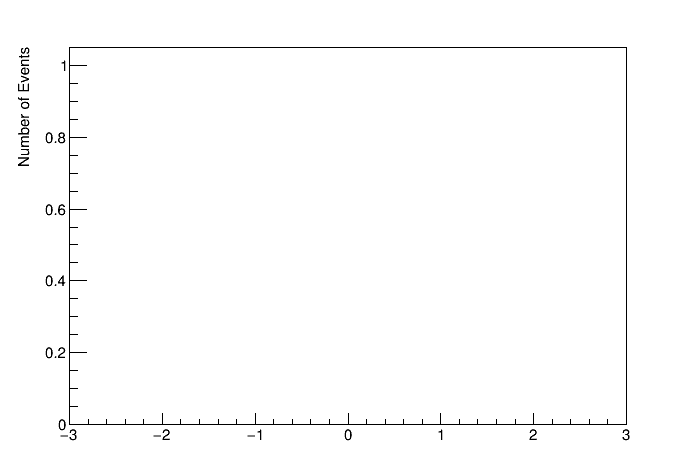
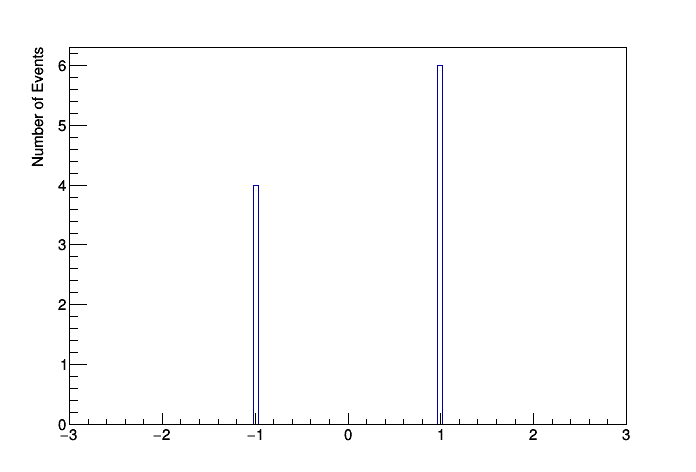
wctrk being read correctly now

diff --git a/src/ProtonXsec/ProtonXsec.cpp b/src/ProtonXsec/ProtonXsec.cpp
@@ -60,15 +60,15 @@ int main( int argc, char * argv[] ){
   gStyle->SetOptStat(0000);
   gStyle->SetOptFit(0000);
   gStyle->SetOptTitle(0);
-  gStyle->SetFillColor(0);
+  //gStyle->SetFillColor(0);
   gStyle->SetPadColor(0);
   gStyle->SetCanvasColor(0);
-  gStyle->SetStatColor(0);
+  //gStyle->SetStatColor(0);
   gStyle->SetTitleColor(0);
   gStyle->SetPadBorderMode(0);
   gStyle->SetFrameBorderMode(0);
   gStyle->SetCanvasBorderMode(0);
-  gStyle->SetPalette(18,0);
+  //gStyle->SetPalette(18,0);
   gStyle->SetPaperSize(20,26);
 
   //gRandom->SetSeed(0);
@@ -134,7 +134,7 @@ ProtonXsec::ProtonXsec( char* jobOptionsFile ) : LArIATAnalysis( jobOptionsFile 
     numEventsToProcess = 100000000;
   
   
-  verbose = UI->verbose;
+  bool verbose = (UI->verbose > 0);
   isMC = UI->isMC;
   
 }
@@ -150,27 +150,41 @@ void ProtonXsec::AnalyzeFromNtuples(){
   std::cout << "I calculate the p-Ar cross section! \n";
   
   EventSelector *ES = new EventSelector();
-  std::cout << ES->classifyEvent( 4 ) << std::endl;
-  std::cout << ES->classifyEvent( 7 ) << std::endl;
-
 
   BeamSelector *BS = new BeamSelector();
   
-  bookNtuple( tuple );
+  bookNtuple( tuple , UI->isMC);
   if (tuple == 0) return;
 
   Long64_t nentries = tuple->GetEntriesFast();
-  TCanvas *c = new TCanvas;
-  TH1D *BeamSelHistMC = new TH1D("BeamSelHistMC","True False Proton Histogram: MC",100,-3,3);
+  TCanvas *c = new TCanvas("c","c",1000, 1000);
+
+
+  TH1D *BeamSelHistMC = new TH1D("BeamSelHistMC","Primary Track Identified for Event: MC",100,-3,3);
   BeamSelHistMC->GetYaxis()->SetTitle("Number of Events");
-  TH1D *BeamSelHistData = new TH1D("BeamSelHistData","True False Proton Histogram: Data",100,-3,3);
+  
+  TH1D *BeamSelHistData = new TH1D("BeamSelHistData","Primary Tracks Identified",100,-3,3);
   BeamSelHistData->GetYaxis()->SetTitle("Number of Events");
-  TH2D *BeamPositionXY =  new TH2D("BeamPositionXY","Position of incoming particles",
-    20, 0, 80, 20, -40, 40);
-  BeamPositionXY->GetYaxis()->SetTitle("Y");
-  BeamPositionXY->GetXaxis()->SetTitle("X");
+  BeamSelHistData->GetYaxis()->SetTitle("Number of Events");
+
+  TH1D *BeamToF = new TH1D("BeamToF","Incoming Particle TOF",20,-2,2);
+  BeamToF->GetXaxis()->SetTitle("ns");
+  BeamToF->GetYaxis()->SetTitle("Number of Events");
+
+  
+
+  TH2D *TrackPositionXY =  new TH2D("TrackPositionXY","Position of TPC track start",
+    20, 0, 47.5, 20, -20, 20);
+  TrackPositionXY->GetYaxis()->SetTitle("Y");
+  TrackPositionXY->GetXaxis()->SetTitle("X");
 
    
+
+  TH1D *BeamMomentum = new TH1D("BeamMomentum","Incoming Particle Momentum",20,300,700);
+  BeamMomentum->GetXaxis()->SetTitle("[MeV/c]");
+  BeamMomentum->GetYaxis()->SetTitle("Number of Events");
+
+
   // ## event loop ##
   for (Long64_t jentry=0; jentry < numEventsToProcess && jentry < nentries; jentry++) {
     
@@ -182,25 +196,34 @@ void ProtonXsec::AnalyzeFromNtuples(){
     int reco_primary = -1;
     double first_reco_z = 99.;
     printEvent();
-    bool beam_result = BS->isProton( track_zpos, ntracks_reco, isMC, UI->zBeamCutoff,
+    bool found_primary = BS->PrimaryTrack( track_zpos, ntracks_reco, UI->zBeamCutoff,
      reco_primary, first_reco_z);
-    if(beam_result){
-      std::cout << "is Proton\n" << std::endl;
+    
+    if(found_primary){
+      std::cout << "Found Primary\n" << std::endl;
       if(isMC){
-        BeamSelHistMC->Fill(1);
-
-        
-        BeamPositionXY->Fill((*track_xpos)[reco_primary][first_reco_z],
-          (*track_ypos)[reco_primary][first_reco_z]);
+        BeamSelHistMC->Fill(1);        
+        TrackPositionXY->Fill((*track_xpos)[reco_primary][0],
+          (*track_ypos)[reco_primary][0]);
       
       }
-      else{BeamSelHistData->Fill(1);}
+      else{//
+        BeamSelHistData->Fill(1);
+          TrackPositionXY->Fill((*track_xpos)[reco_primary][0],
+          (*track_ypos)[reco_primary][0]);
+
+          for (int wctrack = 0 ; wctrack < num_wctracks; wctrack++){
+          BeamMomentum->Fill(wctrk_momentum[wctrack]);
+          BeamToF->Fill(tofObject[wctrack]);}
+
+      }
 
     }
     else{
-      std::cout << "not Proton\n" << std::endl;
+      std::cout << "No Valid Primary \n" << std::endl;
       if(isMC){BeamSelHistMC->Fill(-1);}
       else{BeamSelHistData->Fill(-1);}
+
     }
   }
 
@@ -219,12 +242,12 @@ void ProtonXsec::AnalyzeFromNtuples(){
     }
     /*if(UI->psOutputFileSet){
        BeamSelHistMC->Print(UI->psOutputFile);
-       BeamPositionXY->Print(UI->psOutputFile);
+       TrackPositionXY->Print(UI->psOutputFile);
     }*/
     TImage *img = TImage::Create();
     img->FromPad(c);
     img->WriteImage("BeamSelHistMC.png");
-    BeamPositionXY->Draw("COLZ");
+    TrackPositionXY->Draw("COLZ");
     TImage *BeamXYimg = TImage::Create();
     BeamXYimg->FromPad(c);
     BeamXYimg->WriteImage("BeamXY.png");}
@@ -233,18 +256,42 @@ void ProtonXsec::AnalyzeFromNtuples(){
 
 
 
-  else if (!(isMC)){BeamSelHistData->Draw();
+  else if (!(isMC)){
     c->cd();
+    
+    
 
 
     if(UI->rootOutputFileSet){
-       BeamSelHistData->Write();
+
+    BeamSelHistData->Draw();
+    BeamSelHistData->Write();
+    TImage *img = TImage::Create();
+    img->FromPad(c);
+    img->WriteImage("BeamSelHistData.png");
+    
+    TrackPositionXY->Draw("COLZ");
+    TrackPositionXY->Write();
+    TImage *BeamXYimg = TImage::Create();
+    BeamXYimg->FromPad(c);
+    BeamXYimg->WriteImage("BeamXYData.png");
+    
+    BeamToF->Draw();
+    BeamToF->Write();
+    TImage *Beamtofimg = TImage::Create();
+    Beamtofimg->FromPad(c);
+    Beamtofimg->WriteImage("BeamToFData.png");
+
+    BeamMomentum->Draw();
+    BeamMomentum->Write();
+    TImage *BeamMomImg = TImage::Create();
+    BeamMomImg->FromPad(c);
+    BeamMomImg->WriteImage("BeamMomentum.png");
+
     }
 
 
-    TImage *img = TImage::Create();
-    img->FromPad(c);
-    img->WriteImage("BeamSelHistData.png");}
+}
 
 
 

diff --git a/src/Utilities/LArIATAnalysis.cpp b/src/Utilities/LArIATAnalysis.cpp
@@ -96,7 +96,7 @@ void LArIATAnalysis::openNtupleFiles( char* file, TChain* &tuple ){
 //===================================================================
 // booNtuple -- set the branch addresses for the current ntuple
 //===================================================================
-void LArIATAnalysis::bookNtuple( TChain* tuple ){
+void LArIATAnalysis::bookNtuple( TChain* tuple, bool isMC ){
 
   if( !tuple ){
     std::cout << "You did not supply an ntuple file!!" << std::endl;
@@ -177,8 +177,12 @@ void LArIATAnalysis::bookNtuple( TChain* tuple ){
   DPMidPosZ = 0;
   InteractionPoint = 0;
   InteractionPointType = 0;
+  num_wctracks = 0;
+
+
   
   tuple->SetMakeClass(1);
+  
   
   tuple->SetBranchAddress("run", &run, &b_run);
   tuple->SetBranchAddress("subrun", &subrun, &b_subrun);
@@ -267,6 +271,15 @@ void LArIATAnalysis::bookNtuple( TChain* tuple ){
   tuple->SetBranchAddress("DPMidPosZ", &DPMidPosZ, &b_DPMidPosZ);
   tuple->SetBranchAddress("InteractionPoint", &InteractionPoint, &b_InteractionPoint);
   tuple->SetBranchAddress("InteractionPointType", &InteractionPointType, &b_InteractionPointType);
+  if(!isMC){
+    tuple->SetBranchAddress("wctrk_momentum", &wctrk_momentum, &b_wctrk_momentum);
+    tuple->SetBranchAddress("wctrk_XFace", &wctrk_XFace, &b_wctrk_XFace);
+    tuple->SetBranchAddress("wctrk_YFace", &wctrk_YFace, &b_wctrk_YFace);
+    tuple->SetBranchAddress("wctrk_theta", &wctrk_theta, &b_wctrk_theta);
+    tuple->SetBranchAddress("wctrk_phi", &wctrk_phi, &b_wctrk_phi);
+    tuple->SetBranchAddress("num_wctracks", &num_wctracks, &b_num_wctracks);
+    tuple->SetBranchAddress("tofObject", &tofObject, &b_tofObject); }
+
   
 }
 
@@ -306,7 +319,7 @@ void LArIATAnalysis::printEvent(){
 
 
   
-  cout << "run = " << run << ", subrun = " << subrun << ", event = " << event << ", Ntracks = " << ntracks_reco << ", t0 = " << t0 << endl;
+  cout << "run = " << run << ", subrun = " << subrun << ", event = " << event << ", Ntracks = " << ntracks_reco << ", wctrk_momentum = " << wctrk_momentum[0] << endl;
 
   
 

diff --git a/src/Utilities/LArIATAnalysis.h b/src/Utilities/LArIATAnalysis.h
@@ -26,7 +26,7 @@ class LArIATAnalysis {
  protected:
 
   void openNtupleFiles( char* file, TChain* &tuple ); 
-  void bookNtuple( TChain* tuple ); 
+  void bookNtuple( TChain* tuple , bool isMC); 
   
   void setKinematicBinning( );
 
@@ -178,6 +178,18 @@ class LArIATAnalysis {
   std::vector<std::vector<double> > *DPMidPosZ;
   std::vector<int>     *InteractionPoint;
   std::vector<int>     *InteractionPointType;
+
+  const static int max_num_wctracks = 3;
+  Int_t     num_wctracks;
+  Double_t  wctrk_momentum[max_num_wctracks];
+  Double_t  wctrk_XFace[max_num_wctracks];
+  Double_t  wctrk_YFace[max_num_wctracks];
+  Double_t  wctrk_theta[max_num_wctracks];
+  Double_t  wctrk_phi[max_num_wctracks];
+  Int_t     num_tof_objects;  
+  Double_t  tofObject[max_num_wctracks];
+
+
   
   // List of branches
   TBranch        *b_run;   //!
@@ -266,7 +278,14 @@ class LArIATAnalysis {
   TBranch        *b_DPMidPosY;   //!
   TBranch        *b_DPMidPosZ;   //!
   TBranch        *b_InteractionPoint;   //!
-  TBranch        *b_InteractionPointType;   //!
+  TBranch        *b_InteractionPointType;
+  TBranch        *b_wctrk_momentum;   //!
+  TBranch        *b_wctrk_XFace; 
+  TBranch        *b_wctrk_YFace; 
+  TBranch        *b_wctrk_theta;
+  TBranch        *b_wctrk_phi;  
+  TBranch        *b_num_wctracks;  //!
+  TBranch        *b_tofObject;   //!
   
 };
 

diff --git a/src/Selection/BeamSelector.cpp b/src/Selection/BeamSelector.cpp
@@ -26,16 +26,16 @@ BeamSelector::BeamSelector(){
 //=============================================================================
 // classsifyEvent()
 //=============================================================================
-bool BeamSelector::isProton(std::vector<std::vector<double>> *track_zpos,int ntracks_reco,  bool mc_mode, 
+bool BeamSelector::PrimaryTrack(std::vector<std::vector<double>> *track_zpos,int ntracks_reco, 
   double zPointCutoff, int& reco_primary, double& first_reco_z){
 
       bool print = true;
 
 
-      if(mc_mode){
+      
 
         if(print){
-          std::cout<<"MC Beam Selection"<<std::endl;
+          std::cout<<"Primary Track Lookup"<<std::endl;
           std::cout<<">>>>>>>>>>>>>>>>reco<<<<<<<<<<<<<<<<"<<std::endl;
         }
 
@@ -53,10 +53,7 @@ bool BeamSelector::isProton(std::vector<std::vector<double>> *track_zpos,int ntr
         else{
           if(print){std::cout << "earliest primary: " << reco_primary << std::endl;} 
         return true;}
-      }
-      else{
-        std::cout<<"Beam Selection for data not available\n"<<std::endl;
-      return false;}
+      
 
 }
 

diff --git a/src/Selection/BeamSelector.h b/src/Selection/BeamSelector.h
@@ -12,8 +12,8 @@ class BeamSelector {
 
   BeamSelector( );
  
-  bool isProton(std::vector< std::vector<double> > *track_zpos, int ntracks_reco,
-  				 bool mc_mode, double zPointCutoff, int& reco_primary, double& first_reco_z);
+  bool PrimaryTrack(std::vector< std::vector<double> > *track_zpos, int ntracks_reco,
+  					 double zPointCutoff, int& reco_primary, double& first_reco_z);
 
  private:
 
